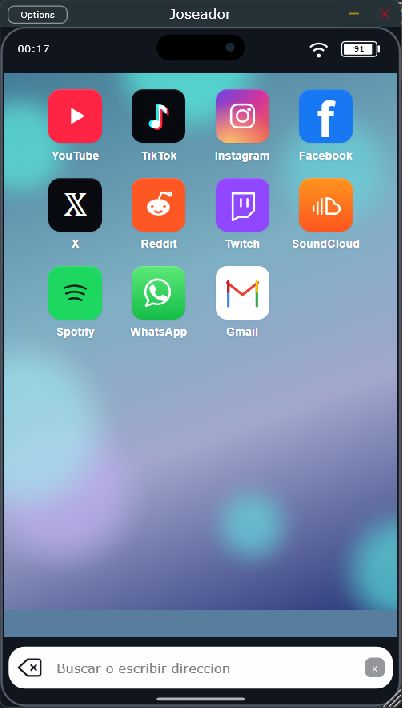
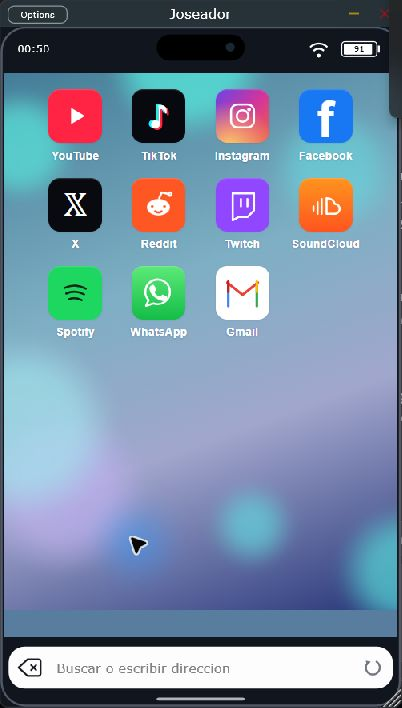
Add page refresh and harden browser input, credentials and saved URLs

diff --git a/Source/mobile-input.js b/Source/mobile-input.js
@@ -21,14 +21,14 @@
  addEventListener('pointermove',e=>{hover=e.target;report();},{passive:true,capture:true});
  addEventListener('popstate',report);addEventListener('hashchange',report);setInterval(report,500);report();
  addEventListener('keydown',e=>{
-   if(e.ctrlKey||e.altKey||e.metaKey||e.shiftKey||blocked(e.target))return;
+   if(!e.isTrusted||e.ctrlKey||e.altKey||e.metaKey||e.shiftKey||blocked(e.target))return;
    const direction={ArrowDown:1,ArrowRight:1,ArrowUp:-1,ArrowLeft:-1}[e.key];
    const m=mode();if(!direction||!m)return;e.preventDefault();
    const horizontal=e.key==='ArrowLeft'||e.key==='ArrowRight';
    console.debug('__WC_WHEEL__:'+(m==='stories'?'stories':horizontal?'horizontal':m)+':'+direction);
  },{capture:true});
  addEventListener('wheel',e=>{
-   if(e.ctrlKey||e.metaKey||Math.abs(e.deltaX)>Math.abs(e.deltaY)||!e.deltaY)return;
+   if(!e.isTrusted||e.ctrlKey||e.metaKey||Math.abs(e.deltaX)>Math.abs(e.deltaY)||!e.deltaY)return;
    if(blocked(e.target))return;
    const m=mode();if(!m)return;
    e.preventDefault();

diff --git a/Source/MobileBrowser.cpp b/Source/MobileBrowser.cpp
@@ -6,6 +6,8 @@
 #include "include/capi/cef_jsdialog_handler_capi.h"
 #include "include/capi/cef_parser_capi.h"
 #include "PasswordStore.h"
+#include "NavigationPolicy.h"
+#include "InputGate.h"
 #include "include/cef_sandbox_win.h"
 #include "include/cef_api_hash.h"
 #include <shellapi.h>
@@ -45,9 +47,10 @@ bool closing=false,selfTest=false,homeTest=false;
 bool returningBack=false;
 std::wstring currentAddress;
 bool historyTest=false,historyOk=true;int historyStep=-1;ULONGLONG historyStarted=0;
+bool reloadTest=false,reloadIssued=false;int reloadLoads=0;ULONGLONG reloadStarted=0;
 std::wstring profileTest;
 int width=370,height=493,channelCount=2,protocolId=0,lastGestureId=0;
-int wheelMode=0;HHOOK mouseHook=nullptr;
+int wheelMode=0;HHOOK mouseHook=nullptr,keyboardHook=nullptr;InputGate inputGate;
 struct SwipeState{bool active=false,tap=false;int direction=1;ULONGLONG started=0;double x=0,y=0,distance=0;bool horizontal=false;} swipe;
 void protocol(const std::string& method,const std::string& params){
     if(!active)return;auto*host=active->get_host(active);
@@ -89,14 +92,21 @@ void updateSwipe(){if(!swipe.active)return;const double t=(GetTickCount64()-swip
     if(t>=1){touch("touchEnd",0,0);swipe.active=false;}
 }
 LRESULT CALLBACK mouseProc(int code,WPARAM message,LPARAM param){
-    if(code>=0&&message==WM_MOUSEWHEEL&&active&&wheelMode&&!(GetKeyState(VK_CONTROL)&0x8000)&&!(GetKeyState(VK_SHIFT)&0x8000)){
+    if(code==HC_ACTION&&message==WM_MOUSEWHEEL&&active&&!(GetKeyState(VK_CONTROL)&0x8000)&&!(GetKeyState(VK_SHIFT)&0x8000)){
         auto*info=(MOUSEHOOKSTRUCTEX*)param;RECT bounds{};GetClientRect(root,&bounds);POINT point=info->pt;ScreenToClient(root,&point);
-        if(PtInRect(&bounds,point)){static int amount=0;const int delta=(short)HIWORD(info->mouseData);if((amount>0)!=(delta>0))amount=0;amount+=delta;
-            if(std::abs(amount)>=35){wheelGesture(wheelMode==2,amount<0?1:-1,false,wheelMode==3);amount=0;}return 1;}
+        if(PtInRect(&bounds,point)){static int amount=0;const int delta=(short)HIWORD(info->mouseData);if(delta)inputGate.record(0,delta<0?1:-1,GetTickCount64());if(!wheelMode)return CallNextHookEx(mouseHook,code,message,param);
+            if((amount>0)!=(delta>0))amount=0;amount+=delta;
+            if(std::abs(amount)>=35){wheelGesture(wheelMode==2,amount<0?1:-1,false,wheelMode==3);amount=0;inputGate.consume();}return 1;}
     }
     return CallNextHookEx(mouseHook,code,message,param);
 }
-void navigate(const std::wstring& address){if(active){auto target=address;
+LRESULT CALLBACK keyboardProc(int code,WPARAM key,LPARAM details){
+    if(code==HC_ACTION&&!(static_cast<ULONG_PTR>(details)&(1ull<<31))&&active){const auto focus=GetFocus();if(focus&&(focus==root||IsChild(root,focus))){
+        if(key==VK_UP||key==VK_DOWN)inputGate.record(1,key==VK_DOWN?1:-1,GetTickCount64());
+        else if(key==VK_LEFT||key==VK_RIGHT)inputGate.record(2,key==VK_RIGHT?1:-1,GetTickCount64());
+    }}return CallNextHookEx(keyboardHook,code,key,details);
+}
+void navigate(const std::wstring& address){if(active&&navigation::allowed(address)){auto target=address;
     if(target==L"webcapture://home"){wchar_t path[32768];GetModuleFileNameW(nullptr,path,32768);target=std::wstring(path);target=target.substr(0,target.find_last_of(L"\\/"))+L"\\start.html";for(auto&c:target)if(c==L'\\')c=L'/';target=L"file:///"+target;}
     auto*f=active->get_main_frame(active);String s(target);f->load_url(f,&s.value);release(f);}}
 bool isHome(const std::wstring& address){return address==L"webcapture://home"||(address.rfind(L"file:///",0)==0&&address.size()>=11&&address.substr(address.size()-11)==L"/start.html");}
@@ -111,6 +121,7 @@ LRESULT CALLBACK windowProc(HWND hwnd,UINT message,WPARAM wp,LPARAM lp){
     if(message==WM_SIZE){width=LOWORD(lp);height=HIWORD(lp);if(active){auto*h=active->get_host(active);SetWindowPos(h->get_window_handle(h),nullptr,0,0,width,height,SWP_NOZORDER|SWP_NOACTIVATE);release(h);mobileMetrics();}return 0;}
     if(message==WM_TIMER){shared->heartbeat=GetTickCount64();
         updateSwipe();
+        if(reloadTest&&reloadLoads==1&&!reloadIssued&&GetTickCount64()-reloadStarted>500&&WaitForSingleObject(navigationMutex,0)==WAIT_OBJECT_0){shared->command=6;reloadIssued=true;ReleaseMutex(navigationMutex);}
         if(historyTest&&historyStep>=0&&historyStep<4&&GetTickCount64()-historyStarted>(ULONGLONG)(400*(historyStep+1))){
             const std::wstring current=shared->url;
             if(WaitForSingleObject(navigationMutex,100)==WAIT_OBJECT_0){const auto hash=current.find(L'#');const auto label=isHome(current)?L"home":hash==std::wstring::npos?L"other":current.substr(hash);const auto marker=L" | H"+std::to_wstring(historyStep)+L":"+label;if(wcslen(shared->error)+marker.size()+1<std::size(shared->error))wcscat_s(shared->error,marker.c_str());ReleaseMutex(navigationMutex);}
@@ -125,7 +136,8 @@ LRESULT CALLBACK windowProc(HWND hwnd,UINT message,WPARAM wp,LPARAM lp){
         if(shared->quit&&!closing){closing=true;closeBrowser();}
         if(active&&!closing&&WaitForSingleObject(navigationMutex,0)==WAIT_OBJECT_0){auto action=shared->command;std::wstring address=shared->url;shared->command=0;ReleaseMutex(navigationMutex);
             if(action==1){returningBack=false;navigate(address);}else if(action==2)backOrHome();else if(action==3)active->go_forward(active);
-            else if(action==4||action==5){auto*host=active->get_host(active);cef_mouse_event_t event{};event.x=width/2;event.y=height/2;host->send_mouse_wheel_event(host,&event,0,action==4?-120:120);release(host);}}
+            else if(action==6){returningBack=false;active->reload(active);}
+            else if(action==4||action==5){if(wheelMode)wheelGesture(wheelMode==2,action==4?1:-1,false,wheelMode==3);else{auto*host=active->get_host(active);cef_mouse_event_t event{};event.x=width/2;event.y=height/2;host->send_mouse_wheel_event(host,&event,0,action==4?-120:120);release(host);}}}
         return 0;}
     if(message==WM_CLOSE){if(closing)DestroyWindow(hwnd);else{closing=true;closeBrowser();}return 0;}
     return DefWindowProc(hwnd,message,wp,lp);
@@ -138,8 +150,9 @@ int run(HINSTANCE instance,void* sandbox){
     HANDLE mapping=OpenFileMappingW(FILE_MAP_ALL_ACCESS,FALSE,name.c_str());if(!mapping)return 31;
     shared=(webcapture::Bridge*)MapViewOfFile(mapping,FILE_MAP_ALL_ACCESS,0,0,sizeof(webcapture::Bridge));if(!shared)return 32;
     navigationMutex=OpenMutexW(SYNCHRONIZE|MUTEX_MODIFY_STATE,FALSE,(name+L"-ui").c_str());if(!navigationMutex)return 33;
+    reloadTest=std::wstring(GetCommandLineW()).find(L"--reload-test")!=std::wstring::npos;if(reloadTest)homeTest=true;
     if(!sandbox){shared->fault=1;return 34;}
-    cef_settings_t settings{};settings.size=sizeof(settings);settings.log_severity=LOGSEVERITY_ERROR;
+    cef_settings_t settings{};settings.size=sizeof(settings);settings.log_severity=LOGSEVERITY_DISABLE;
     wchar_t local[MAX_PATH];GetEnvironmentVariableW(L"LOCALAPPDATA",local,MAX_PATH);
     auto cache=std::wstring(local)+L"\\WebCaptureMobile\\"+name.substr(name.find_last_of(L'\\')+1);
     if(selfTest&&!profileTest.empty())cache=std::wstring(local)+L"\\WebCaptureMobile\\Tests\\Persistence";
@@ -167,6 +180,7 @@ int run(HINSTANCE instance,void* sandbox){
     load->api.on_load_end=[](cef_load_handler_t*,cef_browser_t*,cef_frame_t*frame,int){if(frame->is_main(frame)){mobileMetrics();fitDocument(frame);if(selfTest){
         String js(L"window.a=new AudioContext();window.o=a.createOscillator();window.g=a.createGain();g.gain.value=0.18;o.frequency.value=440;o.connect(g);g.connect(a.destination);o.start();a.resume();console.log('WEBCAPTURE_CODECS:'+document.createElement('video').canPlayType('video/mp4; codecs=\"avc1.42E01E, mp4a.40.2\"')+' | APPS:'+document.querySelectorAll('main a').length+' | WIDTH:'+innerWidth);"),origin(L"https://webcapture.test");
         frame->execute_java_script(frame,&js.value,&origin.value,0);
+        if(reloadTest&&isHome(currentAddress)){++reloadLoads;if(reloadLoads==1)reloadStarted=GetTickCount64();else if(reloadLoads==2){String result(L"console.debug('WEBCAPTURE_RELOAD:yes');");frame->execute_java_script(frame,&result.value,&origin.value,0);}}
         if(historyTest&&historyStep<0){auto*u=frame->get_url(frame);std::wstring page;if(u){page.assign((wchar_t*)u->str,u->length);cef_string_userfree_utf16_free(u);}if(isHome(page)){
             historyStep=0;historyStarted=GetTickCount64();protocol("Runtime.evaluate","{\"expression\":\"history.pushState({},'' , '#one');history.pushState({},'' , '#two');\",\"userGesture\":true}");
         }}
@@ -188,21 +202,24 @@ int run(HINSTANCE instance,void* sandbox){
     display->api.on_console_message=[](cef_display_handler_t*,cef_browser_t*,cef_log_severity_t,const cef_string_t*msg,const cef_string_t*,int)->int{
         std::wstring command((wchar_t*)msg->str,msg->length);
         if(command==L"__WC_MODE__:reels"||command==L"__WC_MODE__:stories"||command==L"__WC_MODE__:scroll"||command==L"__WC_MODE__:normal"){wheelMode=command==L"__WC_MODE__:reels"?1:(command==L"__WC_MODE__:stories"?2:(command==L"__WC_MODE__:scroll"?3:0));return 1;}
-        if(selfTest&&(command.rfind(L"WEBCAPTURE_FIT:",0)==0||command.rfind(L"WEBCAPTURE_TOUCH:",0)==0||command.rfind(L"WEBCAPTURE_PERSIST:",0)==0)&&WaitForSingleObject(navigationMutex,100)==WAIT_OBJECT_0){if(wcslen(shared->error)+command.size()+4<std::size(shared->error))wcscat_s(shared->error,(L" | "+command).c_str());ReleaseMutex(navigationMutex);return 1;}
+        if(selfTest&&(command.rfind(L"WEBCAPTURE_FIT:",0)==0||command.rfind(L"WEBCAPTURE_TOUCH:",0)==0||command.rfind(L"WEBCAPTURE_PERSIST:",0)==0||command.rfind(L"WEBCAPTURE_RELOAD:",0)==0)&&WaitForSingleObject(navigationMutex,100)==WAIT_OBJECT_0){if(wcslen(shared->error)+command.size()+4<std::size(shared->error))wcscat_s(shared->error,(L" | "+command).c_str());ReleaseMutex(navigationMutex);return 1;}
         if(command==L"__WC_WHEEL__:reels:1"||command==L"__WC_WHEEL__:reels:-1"||command==L"__WC_WHEEL__:stories:1"||command==L"__WC_WHEEL__:stories:-1"||command==L"__WC_WHEEL__:scroll:1"||command==L"__WC_WHEEL__:scroll:-1"||command==L"__WC_WHEEL__:horizontal:1"||command==L"__WC_WHEEL__:horizontal:-1"){
-            wheelGesture(command.find(L":stories:")!=std::wstring::npos,command.back()==L'1'&&command[command.size()-2]!=L'-'?1:-1,command.find(L":horizontal:")!=std::wstring::npos,command.find(L":scroll:")!=std::wstring::npos);return 1;
+            const bool stories=command.find(L":stories:")!=std::wstring::npos,horizontal=command.find(L":horizontal:")!=std::wstring::npos;const int direction=command[command.size()-2]==L'-'?-1:1;
+            if(inputGate.accept(horizontal,stories,direction,GetTickCount64()))wheelGesture(stories,direction,horizontal,command.find(L":scroll:")!=std::wstring::npos);return 1;
         }
         if(selfTest){std::wstring text((wchar_t*)msg->str,msg->length);if(text.rfind(L"WEBCAPTURE_CODECS:",0)==0&&WaitForSingleObject(navigationMutex,100)==WAIT_OBJECT_0){wcsncpy_s(shared->error,text.c_str(),_TRUNCATE);ReleaseMutex(navigationMutex);}}return 0;};
     auto*dialog=new Ref<cef_jsdialog_handler_t>;
     dialog->api.on_jsdialog=[](cef_jsdialog_handler_t*,cef_browser_t*,const cef_string_t* url,cef_jsdialog_type_t type,const cef_string_t* message,const cef_string_t* prompt,cef_jsdialog_callback_t*callback,int*)->int{
         const std::wstring text((wchar_t*)message->str,message->length);
         if(type!=JSDIALOGTYPE_PROMPT||(text!=L"__WC_PASSWORD_LOAD__"&&text!=L"__WC_PASSWORD_SAVE__"))return 0;
+        const std::wstring dialogOrigin((wchar_t*)url->str,url->length);
+        if(!passwords::sameTopOrigin(dialogOrigin,currentAddress)||!prompt||prompt->length>16384){String empty(L"{}");callback->cont(callback,1,&empty.value);return 1;}
         const auto site=passwords::origin(std::wstring((wchar_t*)url->str,url->length));std::wstring reply=L"{}",user,secret;
         if(!site.empty()&&text==L"__WC_PASSWORD_LOAD__"){
             if(passwords::read(site,user,secret))reply=L"{\"user\":"+passwords::json(user)+L",\"password\":"+passwords::json(secret)+L"}";
         }else if(!site.empty()){
             auto*value=cef_parse_json(prompt,JSON_PARSER_RFC);
-            if(value){auto*dict=value->get_dictionary(value);if(dict){String u(L"user"),p(L"password");auto a=dict->get_string(dict,&u.value),b=dict->get_string(dict,&p.value);
+            if(value){auto*dict=value->get_type(value)==VTYPE_DICTIONARY?value->get_dictionary(value):nullptr;if(dict){String u(L"user"),p(L"password");auto a=dict->get_string(dict,&u.value),b=dict->get_string(dict,&p.value);
                 if(a){user.assign((wchar_t*)a->str,a->length);cef_string_userfree_utf16_free(a);}if(b){secret.assign((wchar_t*)b->str,b->length);if(b->str)SecureZeroMemory(b->str,b->length*sizeof(char16_t));cef_string_userfree_utf16_free(b);}release(dict);}release(value);}
             reply=L"cancel";
             if(!secret.empty()){
@@ -231,14 +248,8 @@ int run(HINSTANCE instance,void* sandbox){
     observer->api.on_dev_tools_method_result=[](cef_dev_tools_message_observer_t*,cef_browser_t*,int,int,const void*,size_t){};
     auto*host=active->get_host(active);auto*registration=host->add_dev_tools_message_observer(host,&observer->api);release(host);
     if(homeTest)navigate(L"webcapture://home");
-    shared->window=(uint64_t)(uintptr_t)root;mouseHook=SetWindowsHookExW(WH_MOUSE,mouseProc,nullptr,GetCurrentThreadId());SetTimer(root,1,16,nullptr);cef_run_message_loop();if(mouseHook)UnhookWindowsHookEx(mouseHook);KillTimer(root,1);DestroyWindow(root);
+    shared->window=(uint64_t)(uintptr_t)root;mouseHook=SetWindowsHookExW(WH_MOUSE,mouseProc,nullptr,GetCurrentThreadId());keyboardHook=SetWindowsHookExW(WH_KEYBOARD,keyboardProc,nullptr,GetCurrentThreadId());SetTimer(root,1,16,nullptr);cef_run_message_loop();if(mouseHook)UnhookWindowsHookEx(mouseHook);if(keyboardHook)UnhookWindowsHookEx(keyboardHook);KillTimer(root,1);DestroyWindow(root);
     release(registration);observer->release();cef_shutdown();client->release();life->release();audio->release();load->release();display->release();dialog->release();if(profileMutex){ReleaseMutex(profileMutex);CloseHandle(profileMutex);}CloseHandle(navigationMutex);UnmapViewOfFile(shared);CloseHandle(mapping);return 0;
 }
 }
 extern "C" __declspec(dllexport) int RunWinMain(HINSTANCE instance,LPTSTR,int,void*sandbox,cef_version_info_t*){return run(instance,sandbox);}
-
-
-
-
-
-

diff --git a/Source/Plugin.cpp b/Source/Plugin.cpp
@@ -1,5 +1,6 @@
 #include "Browser.h"
 #include "SystemStatus.h"
+#include "NavigationPolicy.h"
 class Processor;
 class HomeButton final:public juce::Button {
 public:
@@ -12,6 +13,16 @@ public:
         const float cx=left+15,cy=h*.5f;g.drawLine(cx-3,cy-3,cx+3,cy+3,1.6f);g.drawLine(cx+3,cy-3,cx-3,cy+3,1.6f);
     }
 };
+class ReloadButton final:public juce::Button {
+public:
+    ReloadButton():Button("Actualizar pagina"){setTooltip("Actualizar pagina");}
+    void paintButton(juce::Graphics& g,bool over,bool down)override{
+        if(over||down){g.setColour(juce::Colour(down?0xffd4d7dd:0xffedf0f4));g.fillEllipse(getLocalBounds().toFloat());}
+        const auto area=getLocalBounds().toFloat();const float cx=area.getCentreX(),cy=area.getCentreY(),r=7;
+        g.setColour(juce::Colour(0xff747982));juce::Path arc;arc.addCentredArc(cx,cy,r,r,0,.55f,5.65f,true);g.strokePath(arc,juce::PathStrokeType(1.8f,juce::PathStrokeType::curved,juce::PathStrokeType::rounded));
+        juce::Path head;head.startNewSubPath(cx-7,cy-7);head.lineTo(cx-2,cy-6);head.lineTo(cx-6,cy-2);head.closeSubPath();g.fillPath(head);
+    }
+};
 class Editor final:public juce::AudioProcessorEditor,private juce::Timer {
 public:
     explicit Editor(Processor&);
@@ -20,7 +31,7 @@ public:
 private:
     Processor& proc;BrowserView browser;juce::TextEditor url;
     HomeButton home;
-    juce::TextButton clear{juce::String::fromUTF8("\xc3\x97")};
+    ReloadButton reload;
     SystemStatus pc;
     juce::TooltipWindow tips{this,500};
     void timerCallback()override;
@@ -45,17 +56,16 @@ public:
     juce::AudioProcessorEditor* createEditor()override{ensureBrowser();return new Editor(*this);}
     int getNumPrograms()override{return 1;}int getCurrentProgram()override{return 0;}void setCurrentProgram(int)override{}
     const juce::String getProgramName(int)override{return{};}void changeProgramName(int,const juce::String&)override{}
-    void getStateInformation(juce::MemoryBlock& block)override{juce::XmlElement x("WebCaptureMobile");x.setAttribute("url",lastUrl);copyXmlToBinary(x,block);}
-    void setStateInformation(const void* bytes,int n)override{if(auto x=getXmlFromBinary(bytes,n))if(x->hasTagName("WebCaptureMobile"))lastUrl=x->getStringAttribute("url",lastUrl);}
+    void getStateInformation(juce::MemoryBlock& block)override{juce::XmlElement x("WebCaptureMobile");const auto current=session.address();const auto address=current.isNotEmpty()?current:lastUrl;x.setAttribute("url",juce::String(navigation::projectAddress(std::wstring(address.toWideCharPointer())).c_str()));copyXmlToBinary(x,block);}
+    void setStateInformation(const void* bytes,int n)override{if(auto x=getXmlFromBinary(bytes,n))if(x->hasTagName("WebCaptureMobile")){const auto saved=x->getStringAttribute("url",lastUrl);lastUrl=juce::String(navigation::projectAddress(std::wstring(saved.toWideCharPointer())).c_str());}}
 };
 Editor::Editor(Processor& p):AudioProcessorEditor(p),proc(p),browser(p.session){
     setResizable(true,true);setResizeLimits(320,400,1200,1400);setSize(400,680);
-    for(auto* c:std::initializer_list<juce::Component*>{&browser,&url,&home,&clear})addAndMakeVisible(c);
+    for(auto* c:std::initializer_list<juce::Component*>{&browser,&url,&home,&reload})addAndMakeVisible(c);
     home.setTitle("Atras / Inicio");
-    clear.setTitle("Borrar busqueda");clear.setTooltip("Borrar");clear.onClick=[this]{url.clear();url.grabKeyboardFocus();};
-    clear.setColour(juce::TextButton::buttonColourId,juce::Colour(0xff96979b));
-    clear.setColour(juce::TextButton::textColourOffId,juce::Colours::white);
+    reload.onClick=[this]{proc.session.command(6);};
     url.setText(proc.lastUrl=="webcapture://home"?juce::String():proc.lastUrl);url.setSelectAllWhenFocused(true);
+    url.setInputRestrictions(2047);
     home.onClick=[this]{proc.session.command(2);};
     url.setTextToShowWhenEmpty("Buscar o escribir direccion",juce::Colours::grey);
     url.setFont(juce::Font(16));
@@ -77,8 +87,8 @@ Editor::Editor(Processor& p):AudioProcessorEditor(p),proc(p),browser(p.session){
 void Editor::resized(){
     browser.setBounds(4,47,getWidth()-8,getHeight()-116);
     home.setBounds(14,getHeight()-57,30,36);
-    url.setBounds(56,getHeight()-55,getWidth()-100,32);
-    clear.setBounds(getWidth()-36,getHeight()-49,20,20);
+    url.setBounds(56,getHeight()-55,getWidth()-105,32);
+    reload.setBounds(getWidth()-42,getHeight()-53,28,28);
 }
 void Editor::paint(juce::Graphics& g){
     g.fillAll(juce::Colour(0xff10151e));g.setColour(juce::Colour(0xff515866));g.drawRoundedRectangle(getLocalBounds().toFloat().reduced(1),24,2);
@@ -101,4 +111,3 @@ void Editor::paint(juce::Graphics& g){
 }
 void Editor::timerCallback(){const auto current=proc.session.address();if(current.isNotEmpty()&&current!="about:blank"){proc.lastUrl=current;if(!url.hasKeyboardFocus(true))url.setText(current=="webcapture://home"?juce::String():current,false);}auto text=proc.session.status();text+="\n";text+=pc.network==2?"Wi-Fi conectado":(pc.network==1?"Ethernet conectado":(pc.network==0?"Sin conexion de red":"Red no disponible"));text+=" | ";text+=pc.battery==-2?"PC sin bateria":(pc.battery>=0?"Bateria: "+juce::String(pc.battery.load())+"%":"Bateria no disponible");url.setTooltip(text);repaint();}
 juce::AudioProcessor* JUCE_CALLTYPE createPluginFilter(){return new Processor();}
-

diff --git a/Source/NavigationPolicy.h b/Source/NavigationPolicy.h
@@ -1,0 +1,32 @@
+#pragma once
+#include <string>
+#include <cwctype>
+#include <initializer_list>
+namespace navigation {
+inline std::wstring lower(std::wstring value){for(auto&c:value)c=(wchar_t)towlower(c);return value;}
+inline bool allowed(const std::wstring& address){
+    if(address==L"webcapture://home")return true;
+    if(address.size()>2047)return false;
+    for(auto c:address)if(c<=32||c==127||c==L'\\')return false;
+    const auto value=lower(address);const auto start=value.rfind(L"https://",0)==0?8:value.rfind(L"http://",0)==0?7:0;
+    if(!start)return false;const auto end=value.find_first_of(L"/?#",start);const auto authority=value.substr(start,end==std::wstring::npos?end:end-start);
+    return !authority.empty()&&authority.find(L'@')==std::wstring::npos;
+}
+inline bool sensitive(std::wstring key){
+    // Decode escaped parameter names before comparing, e.g. co%64e.
+    std::wstring decoded;const auto hex=[](wchar_t c)->int{c=(wchar_t)towlower(c);return c>=L'0'&&c<=L'9'?c-L'0':c>=L'a'&&c<=L'f'?c-L'a'+10:-1;};
+    for(size_t i=0;i<key.size();++i){if(key[i]==L'%'&&i+2<key.size()&&hex(key[i+1])>=0&&hex(key[i+2])>=0){decoded+=(wchar_t)(hex(key[i+1])*16+hex(key[i+2]));i+=2;}else decoded+=key[i];}
+    decoded=lower(decoded);
+    for(const auto*name:{L"code",L"token",L"access_token",L"id_token",L"refresh_token",L"password",L"passwd",L"pass",L"pwd",L"session",L"sessionid",L"auth",L"authorization",L"state"})if(decoded==name)return true;
+    return false;
+}
+inline std::wstring projectAddress(const std::wstring& address){
+    if(!allowed(address))return L"webcapture://home";
+    const auto hash=address.find(L'#'),query=address.find(L'?');const auto end=hash==std::wstring::npos?address.size():hash;
+    std::wstring result=address.substr(0,query<end?query:end);
+    if(query<end){bool first=true;size_t start=query+1;while(start<end){auto next=address.find(L'&',start);if(next==std::wstring::npos||next>end)next=end;auto part=address.substr(start,next-start);if(!sensitive(part.substr(0,part.find(L'=')))){result+=first?L'?':L'&';result+=part;first=false;}start=next+1;}}
+    // OAuth fragments can contain bearer tokens. Ordinary anchors remain valid.
+    if(hash!=std::wstring::npos){const auto fragment=address.substr(hash+1);bool secret=false;size_t start=0;while(start<fragment.size()){const auto next=fragment.find(L'&',start);const auto part=fragment.substr(start,next==std::wstring::npos?next:next-start);secret=secret||sensitive(part.substr(0,part.find(L'=')));if(next==std::wstring::npos)break;start=next+1;}if(!secret)result+=L"#"+fragment;}
+    return result;
+}
+}

diff --git a/Source/PasswordStore.h b/Source/PasswordStore.h
@@ -3,8 +3,10 @@
 #include <wincred.h>
 #include <string>
 #include <cwctype>
+#include "NavigationPolicy.h"
 namespace passwords {
 inline std::wstring origin(std::wstring url){
+    if(!navigation::allowed(url))return{};
     const auto pos=url.find(L"://");if(pos==std::wstring::npos)return{};
     auto value=url.substr(0,url.find_first_of(L"/?#",pos+3));
     for(auto&c:value)c=(wchar_t)towlower(c);
@@ -12,15 +14,17 @@ inline std::wstring origin(std::wstring url){
     return value;
 }
 inline std::wstring target(const std::wstring&site){return L"WebCaptureMobile:"+site;}
+inline bool sameTopOrigin(const std::wstring&dialog,const std::wstring&top){const auto site=origin(dialog);return !site.empty()&&site==origin(top);}
 inline bool read(const std::wstring&site,std::wstring&user,std::wstring&secret){
-    if(site.empty())return false;PCREDENTIALW cred=nullptr;
+    if(site.empty()||origin(site)!=site)return false;PCREDENTIALW cred=nullptr;
     if(!CredReadW(target(site).c_str(),CRED_TYPE_GENERIC,0,&cred))return false;
+    if(!cred->CredentialBlobSize||cred->CredentialBlobSize>CRED_MAX_CREDENTIAL_BLOB_SIZE||cred->CredentialBlobSize%sizeof(wchar_t)||!cred->CredentialBlob){CredFree(cred);return false;}
     if(cred->UserName)user=cred->UserName;
     secret.assign((wchar_t*)cred->CredentialBlob,cred->CredentialBlobSize/sizeof(wchar_t));
     if(cred->CredentialBlobSize)SecureZeroMemory(cred->CredentialBlob,cred->CredentialBlobSize);CredFree(cred);return true;
 }
 inline bool save(const std::wstring&site,const std::wstring&user,const std::wstring&secret){
-    if(site.empty()||secret.empty()||secret.size()*sizeof(wchar_t)>CRED_MAX_CREDENTIAL_BLOB_SIZE)return false;
+    if(site.empty()||origin(site)!=site||user.size()>CRED_MAX_USERNAME_LENGTH||secret.empty()||secret.size()*sizeof(wchar_t)>CRED_MAX_CREDENTIAL_BLOB_SIZE)return false;
     auto name=target(site);CREDENTIALW cred{};cred.Type=CRED_TYPE_GENERIC;cred.TargetName=name.data();
     cred.UserName=(LPWSTR)user.c_str();cred.CredentialBlob=(LPBYTE)secret.data();cred.CredentialBlobSize=(DWORD)(secret.size()*sizeof(wchar_t));cred.Persist=CRED_PERSIST_LOCAL_MACHINE;
     return CredWriteW(&cred,0)!=FALSE;

diff --git a/Tests/NavigationPolicyTest.cpp b/Tests/NavigationPolicyTest.cpp
@@ -1,0 +1,15 @@
+#include "../Source/NavigationPolicy.h"
+#include <iostream>
+int main(){
+    int failed=0;const auto check=[&](bool value){if(!value)++failed;};
+    for(const auto*url:{L"https://example.com/a?q=1",L"http://localhost:8080/",L"HTTPS://EXAMPLE.COM",L"webcapture://home"})check(navigation::allowed(url));
+    for(const auto*url:{L"javascript:alert(1)",L"file:///C:/private.txt",L"data:text/html,test",L"https:///",L"https://user:pass@example.com",L"https://example.com\n",L"https://example.com\\evil"})check(!navigation::allowed(url));
+    check(!navigation::allowed(L"https://example.com/"+std::wstring(2048,L'x')));
+    check(navigation::projectAddress(L"https://youtube.com/watch?v=123&access_token=secret&list=ok")==L"https://youtube.com/watch?v=123&list=ok");
+    check(navigation::projectAddress(L"https://example.com/?co%64e=secret&ok=1")==L"https://example.com/?ok=1");
+    check(navigation::projectAddress(L"https://example.com/#access_token=secret")==L"https://example.com/");
+    check(navigation::projectAddress(L"https://example.com/a#section")==L"https://example.com/a#section");
+    check(navigation::projectAddress(L"file:///C:/private.txt")==L"webcapture://home");
+    check(navigation::projectAddress(L"https://example.com/?code=secret")==L"https://example.com/");
+    std::cout<<(failed?"FAIL":"PASS")<<": 18 URL policy and project-state privacy cases\n";return failed?1:0;
+}

diff --git a/Tests/PasswordStoreTest.cpp b/Tests/PasswordStoreTest.cpp
@@ -7,10 +7,16 @@ int main(){
     const bool ok=passwords::origin(L"https://EXAMPLE.com/path?q=1")==L"https://example.com"
       &&passwords::origin(L"http://example.com").empty()
       &&passwords::origin(L"https://user@example.com").empty()
+      &&passwords::origin(L"https:///").empty()
+      &&passwords::sameTopOrigin(L"https://example.com",L"https://example.com/login")
+      &&!passwords::sameTopOrigin(L"https://iframe.invalid",L"https://example.com/login")
+      &&!passwords::sameTopOrigin(L"https://example.com",L"http://example.com/login")
+      &&!passwords::save(L"http://example.com",L"synthetic",L"synthetic")
+      &&!passwords::save(site,std::wstring(CRED_MAX_USERNAME_LENGTH+1,L'x'),L"synthetic")
       &&passwords::save(site,L"synthetic-account",L"synthetic-test-value")
       &&passwords::read(site,user,secret)&&user==L"synthetic-account"&&secret==L"synthetic-test-value";
     passwords::wipe(secret);
     const bool removed=CredDeleteW(passwords::target(site).c_str(),CRED_TYPE_GENERIC,0)!=FALSE;
-    std::cout<<(ok&&removed?"PASS: isolated credential save/read/delete and HTTPS scope":"FAIL")<<"\n";
+    std::cout<<(ok&&removed?"PASS: credential save/read/delete, HTTPS/top origin scope and limits":"FAIL")<<"\n";
     return ok&&removed?0:1;
 }

diff --git a/Tests/BridgeProbe.cpp b/Tests/BridgeProbe.cpp
@@ -21,7 +21,8 @@ int wmain(int argc,wchar_t**argv){
  const std::wstring folder=argv[1];auto command=L"\""+folder+L"\\MobileBrowser.exe\" --autoplay-policy=no-user-gesture-required --bridge="+name+L" --self-test";
  const bool persistence=argc>2&&std::wstring(argv[2]).rfind(L"--profile-test=",0)==0;
  const bool history=argc>2&&std::wstring(argv[2])==L"--history-test";
- if(persistence||history)command+=L" "+std::wstring(argv[2]);else if(argc>2)command+=L" --home-test";
+ const bool reload=argc>2&&std::wstring(argv[2])==L"--reload-test";
+ if(persistence||history||reload)command+=L" "+std::wstring(argv[2]);else if(argc>2)command+=L" --home-test";
  if(argc>3)command+=L" --small";
  STARTUPINFOW startup{};startup.cb=sizeof(startup);PROCESS_INFORMATION proc{};
  if(!CreateProcessW(nullptr,command.data(),nullptr,nullptr,FALSE,CREATE_NO_WINDOW,nullptr,folder.c_str(),&startup,&proc))return 2;
@@ -47,6 +48,7 @@ int wmain(int argc,wchar_t**argv){
     if(argc==2&&!wcsstr(b->error,L"TOUCH:yes"))result=8;
     if(persistence&&!wcsstr(b->error,L"PERSIST:yes"))result=9;
     if(history&&!wcsstr(b->error,L"HISTORY:yes"))result=10;
+    if(reload&&!wcsstr(b->error,L"RELOAD:yes"))result=11;
    }
   }
  }

diff --git a/Tests/InputGateTest.cpp b/Tests/InputGateTest.cpp
@@ -1,0 +1,8 @@
+#include "../Source/InputGate.h"
+#include <iostream>
+int main(){int failures=0;const auto check=[&](bool b){if(!b)++failures;};InputGate gate;
+ check(!gate.accept(false,false,1,1000));gate.record(0,1,1000);check(!gate.accept(false,false,-1,1010));check(gate.accept(false,false,1,1020));check(!gate.accept(false,false,1,1030));
+ gate.record(2,-1,2000);check(!gate.accept(false,false,-1,2010));check(gate.accept(true,false,-1,2020));
+ gate.record(1,1,3000);check(!gate.accept(true,false,1,3010));check(gate.accept(false,true,1,3020));
+ gate.record(0,1,4000);check(!gate.accept(false,false,1,4501));gate.record(0,1,5000);gate.consume();check(!gate.accept(false,false,1,5010));
+ std::cout<<(failures?"FAIL":"PASS")<<": native input required, direction/axis matching, expiry and replay rejection\n";return failures?1:0;}

diff --git a/Source/InputGate.h b/Source/InputGate.h
@@ -1,0 +1,14 @@
+#pragma once
+#include <cstdint>
+// Renderer messages describe gestures; only recent native input authorizes one.
+struct InputGate {
+    int axis=0,direction=0;uint64_t timestamp=0;bool pending=false;
+    void record(int inputAxis,int inputDirection,uint64_t now){axis=inputAxis;direction=inputDirection;timestamp=now;pending=true;}
+    void consume(){pending=false;}
+    bool accept(bool horizontal,bool stories,int requestedDirection,uint64_t now){
+        if(!pending||now<timestamp||now-timestamp>500||requestedDirection!=direction)return false;
+        if(axis==2&&!horizontal&&!stories)return false;
+        if(axis!=2&&horizontal)return false;
+        pending=false;return true;
+    }
+};

diff --git a/Source/Session.h b/Source/Session.h
@@ -15,6 +15,7 @@ public:
         if(!bridge){shutdown();error="No se pudo abrir el puente de audio";return false;}
         new(bridge) webcapture::Bridge(); bridge->sampleRate=(uint32_t)rate.load();
         mutex=CreateMutexW(nullptr,FALSE,(name+L"-ui").c_str());
+        if(!mutex){error="No se pudo crear el control del navegador";shutdown();return false;}
         auto exe=runtime.getChildFile("MobileBrowser.exe");
         if(!exe.existsAsFile()){error="Falta el motor BrowserRuntime junto al VST3";shutdown();return false;}
         auto command=L"\""+std::wstring(exe.getFullPathName().toWideCharPointer())+L"\" --autoplay-policy=no-user-gesture-required --bridge=\""+name+L"\""+(selfTest?L" --self-test":L"");

diff --git a/Source/Browser.h b/Source/Browser.h
@@ -10,7 +10,7 @@ private:
     HWND container=nullptr;
     void timerCallback()override {
         if(!getPeer())return;
-        if(!container)container=CreateWindowExW(0,L"STATIC",L"WebCapture Mobile",WS_CHILD|WS_VISIBLE|WS_CLIPCHILDREN,
+        if(!container)container=CreateWindowExW(0,L"STATIC",L"Joseador",WS_CHILD|WS_VISIBLE|WS_CLIPCHILDREN,
             0,0,10,10,(HWND)getPeer()->getNativeHandle(),nullptr,GetModuleHandle(nullptr),nullptr);
         if(!container)return;
         const auto logical=getPeer()->getComponent().getLocalArea(this,getLocalBounds());
